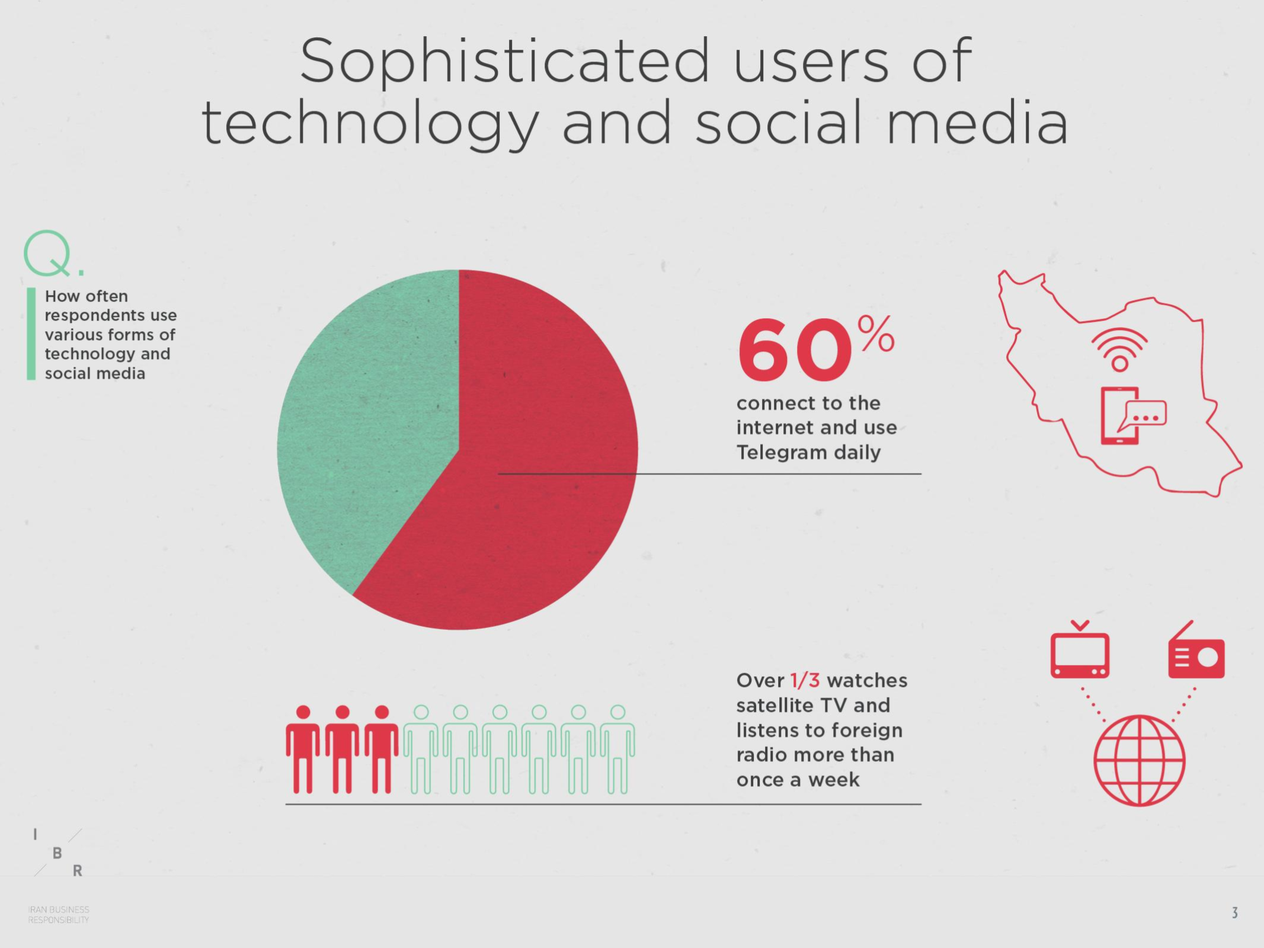
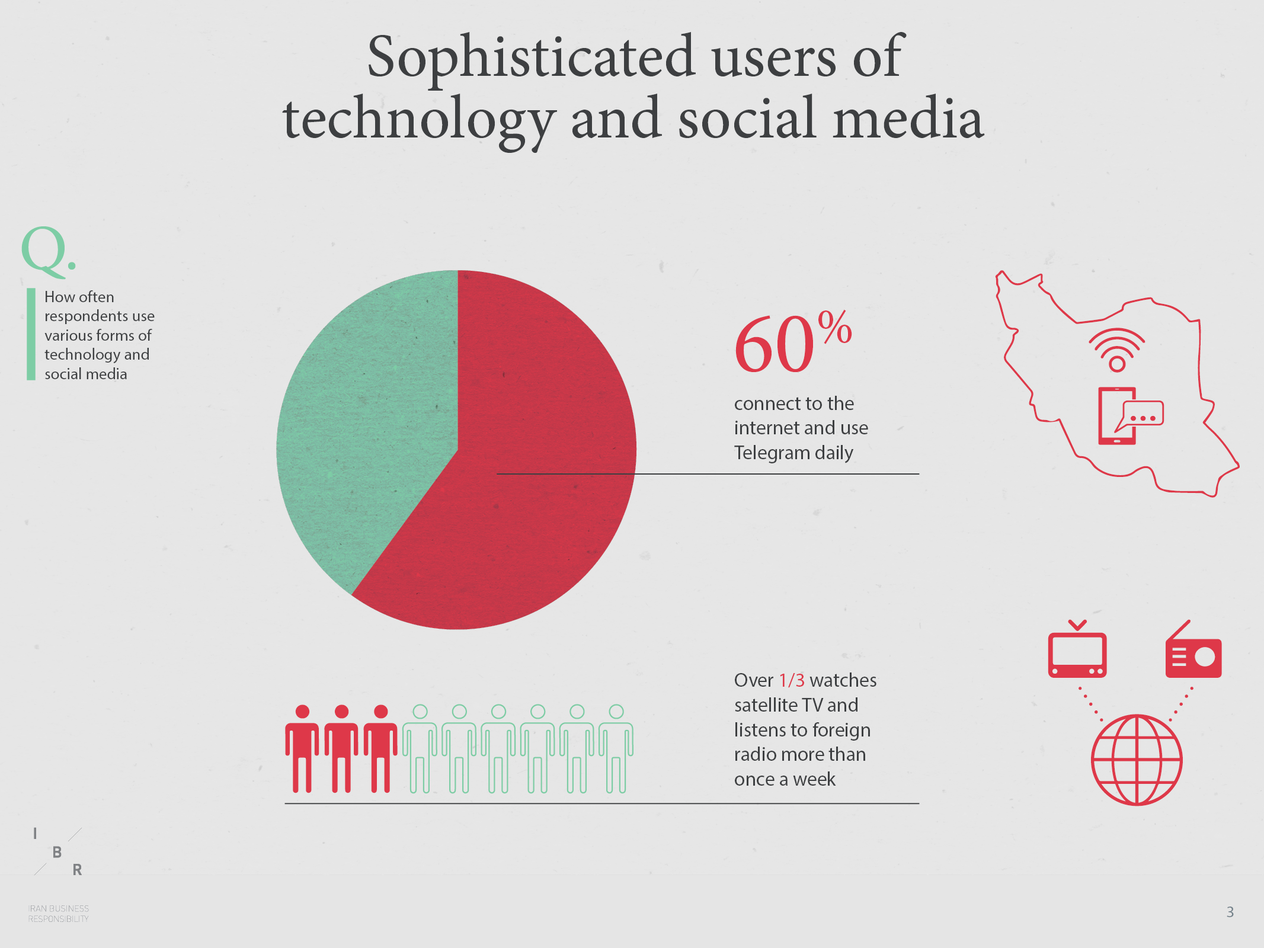
Replacing all images with images exported on Adobe InDesign (Maximum Quality, 150ppi, RGB) version 13.0.1 x64 & Adjusting primary and secondary colors accordingly

diff --git a/css/index.min.css b/css/index.min.css
@@ -1,1 +1,1 @@
-@font-face{font-family:GothamPro;src:url(../assets/fonts/GothamPro-Light.eot);src:url(../assets/fonts/GothamPro-Light.woff2) format("woff2"),url(../assets/fonts/GothamPro-Light.woff) format("woff"),url(../assets/fonts/GothamPro-Light.ttf) format("truetype"),url(../assets/fonts/GothamPro-Light.svg#GothamPro-Light) format("svg"),url(../assets/fonts/GothamPro-Light.eot?#iefix) format("embedded-opentype");font-weight:100;font-style:normal}@font-face{font-family:GothamPro;src:url(../assets/fonts/GothamPro-LightItalic.eot);src:url(../assets/fonts/GothamPro-LightItalic.woff2) format("woff2"),url(../assets/fonts/GothamPro-LightItalic.woff) format("woff"),url(../assets/fonts/GothamPro-LightItalic.ttf) format("truetype"),url(../assets/fonts/GothamPro-LightItalic.svg#GothamPro-LightItalic) format("svg"),url(../assets/fonts/GothamPro-LightItalic.eot?#iefix) format("embedded-opentype");font-weight:100;font-style:italic}@font-face{font-family:GothamPro;src:url(../assets/fonts/GothamPro.eot);src:url(../assets/fonts/GothamPro.woff2) format("woff2"),url(../assets/fonts/GothamPro.woff) format("woff"),url(../assets/fonts/GothamPro.ttf) format("truetype"),url(../assets/fonts/GothamPro.svg#GothamPro) format("svg"),url(../assets/fonts/GothamPro.eot?#iefix) format("embedded-opentype");font-weight:200;font-style:normal}@font-face{font-family:GothamPro;src:url(../assets/fonts/GothamPro-Italic.eot);src:url(../assets/fonts/GothamPro-Italic.woff2) format("woff2"),url(../assets/fonts/GothamPro-Italic.woff) format("woff"),url(../assets/fonts/GothamPro-Italic.ttf) format("truetype"),url(../assets/fonts/GothamPro-Italic.svg#GothamPro-Italic) format("svg"),url(../assets/fonts/GothamPro-Italic.eot?#iefix) format("embedded-opentype");font-weight:200;font-style:italic}@font-face{font-family:GothamPro;src:url(../assets/fonts/GothamPro-Medium.eot);src:url(../assets/fonts/GothamPro-Medium.woff2) format("woff2"),url(../assets/fonts/GothamPro-Medium.woff) format("woff"),url(../assets/fonts/GothamPro-Medium.ttf) format("truetype"),url(../assets/fonts/GothamPro-Medium.svg#GothamPro-Medium) format("svg"),url(../assets/fonts/GothamPro-Medium.eot?#iefix) format("embedded-opentype");font-weight:400;font-style:normal}@font-face{font-family:GothamPro;src:url(../assets/fonts/GothamPro-MediumItalic.eot);src:url(../assets/fonts/GothamPro-MediumItalic.woff2) format("woff2"),url(../assets/fonts/GothamPro-MediumItalic.woff) format("woff"),url(../assets/fonts/GothamPro-MediumItalic.ttf) format("truetype"),url(../assets/fonts/GothamPro-MediumItalic.svg#GothamPro-MediumItalic) format("svg"),url(../assets/fonts/GothamPro-MediumItalic.eot?#iefix) format("embedded-opentype");font-weight:400;font-style:italic}@font-face{font-family:GothamPro;src:url(../assets/fonts/GothamPro-Bold.eot);src:url(../assets/fonts/GothamPro-Bold.woff2) format("woff2"),url(../assets/fonts/GothamPro-Bold.woff) format("woff"),url(../assets/fonts/GothamPro-Bold.ttf) format("truetype"),url(../assets/fonts/GothamPro-Bold.svg#GothamPro-Bold) format("svg"),url(../assets/fonts/GothamPro-Bold.eot?#iefix) format("embedded-opentype");font-weight:600;font-style:normal}@font-face{font-family:GothamPro;src:url(../assets/fonts/GothamPro-BoldItalic.eot);src:url(../assets/fonts/GothamPro-BoldItalic.woff2) format("woff2"),url(../assets/fonts/GothamPro-BoldItalic.woff) format("woff"),url(../assets/fonts/GothamPro-BoldItalic.ttf) format("truetype"),url(../assets/fonts/GothamPro-BoldItalic.svg#GothamPro-BoldItalic) format("svg"),url(../assets/fonts/GothamPro-BoldItalic.eot?#iefix) format("embedded-opentype");font-weight:600;font-style:italic}@font-face{font-family:GothamPro;src:url(../assets/fonts/GothamPro-Black.eot);src:url(../assets/fonts/GothamPro-Black.woff2) format("woff2"),url(../assets/fonts/GothamPro-Black.woff) format("woff"),url(../assets/fonts/GothamPro-Black.ttf) format("truetype"),url(../assets/fonts/GothamPro-Black.svg#GothamPro-Black) format("svg"),url(../assets/fonts/GothamPro-Black.eot?#iefix) format("embedded-opentype");font-weight:800;font-style:normal}@font-face{font-family:GothamPro;src:url(../assets/fonts/GothamPro-BlackItalic.eot);src:url(../assets/fonts/GothamPro-BlackItalic.woff2) format("woff2"),url(../assets/fonts/GothamPro-BlackItalic.woff) format("woff"),url(../assets/fonts/GothamPro-BlackItalic.ttf) format("truetype"),url(../assets/fonts/GothamPro-BlackItalic.svg#GothamPro-BlackItalic) format("svg"),url(../assets/fonts/GothamPro-BlackItalic.eot?#iefix) format("embedded-opentype");font-weight:800;font-style:italic}a{color:#7ccda5}a:active,a:focus,a:hover{color:#57bf8c}.btn-primary{background-color:#7ccda5!important;border-color:#7ccda5!important;color:#fff!important}.btn-primary:active,.btn-primary:focus,.btn-primary:hover{background-color:#57bf8c!important;border-color:#57bf8c!important}.btn-secondary{background-color:#df3848!important;border-color:#df3848!important;color:#fff!important}.btn-secondary:active,.btn-secondary:focus,.btn-secondary:hover{background-color:#c4202f!important;border-color:#c4202f!important}.btn-dark{color:#fff!important}.btn{box-shadow:0 3px 3px 0 rgba(0,0,0,.1);font-weight:700}.bg-primary{background-color:#7ccda5!important}.text-primary{color:#7ccda5!important}.text-secondary{color:#df3848!important}.list-group-item{background-color:#7ccda5;border:none}.list-group-submenu{padding-left:2rem}.list-group-submenu a:before{content:"\00BB\0020"}body,html{width:100%;height:100%}body{font-family:GothamPro,monospace}.btn-xl{padding:1.25rem 2.5rem}.content-section{padding-top:2.5rem;padding-bottom:7.5rem}.content-section-heading h2{font-size:3rem}.content-section-heading h3{font-size:1rem;text-transform:uppercase}h1,h2,h3,h4,h5,h6{font-weight:700}.text-faded{color:rgba(255,255,255,.7)}.map{height:30rem}@media (max-width:992px){.map{height:75%}}.map iframe{pointer-events:none}.scroll-to-top{position:fixed;right:15px;bottom:15px;display:none;width:50px;height:50px;text-align:center;color:#fff;background:rgba(52,58,64,.5);line-height:45px}.scroll-to-top:focus,.scroll-to-top:hover{color:#fff}.scroll-to-top:hover{background:#343a40}.scroll-to-top i{font-weight:800}.masthead{min-height:30rem;position:relative;display:table;width:100%;height:auto;padding-top:8rem;padding-bottom:8rem;background:linear-gradient(90deg,rgba(255,255,255,.1) 0,rgba(255,255,255,.1) 100%),url(../img/william-iven-22449.jpg);background-position:center center;background-repeat:no-repeat;background-size:cover}.masthead h1{font-size:4rem;margin:0;padding:0}@media (min-width:992px){.masthead{height:100vh}.masthead h1{font-size:5.5rem}}#sidebar-wrapper{position:fixed;z-index:2;right:0;width:250px;height:100%;-webkit-transition:all .4s ease 0s;-moz-transition:all .4s ease 0s;-ms-transition:all .4s ease 0s;-o-transition:all .4s ease 0s;transition:all .4s ease 0s;transform:translateX(250px);background:#7ccda5;border-left:1px solid rgba(255,255,255,.1)}.sidebar-nav{position:absolute;top:0;width:250px;margin:0;padding:0;list-style:none}.sidebar-nav li.sidebar-nav-item a{display:block;text-decoration:none;color:#fff;padding:15px}.sidebar-nav li a:hover{text-decoration:none;color:#fff;background:rgba(255,255,255,.2)}.sidebar-nav li a:active,.sidebar-nav li a:focus{text-decoration:none}.sidebar-nav>.sidebar-brand{font-size:1rem;background:rgba(52,58,64,.1);height:80px;padding-top:15px;padding-bottom:15px;padding-left:15px}.sidebar-nav>.sidebar-brand a{color:#fff}.sidebar-nav>.sidebar-brand a:hover{color:#fff;background:0 0}#sidebar-wrapper.active{right:250px;width:250px;-webkit-transition:all .4s ease 0s;-moz-transition:all .4s ease 0s;-ms-transition:all .4s ease 0s;-o-transition:all .4s ease 0s;transition:all .4s ease 0s}.menu-toggle{position:fixed;right:15px;top:15px;width:50px;height:50px;text-align:center;color:#fff;background:rgba(52,58,64,.5);line-height:50px;z-index:999}.menu-toggle:focus,.menu-toggle:hover{color:#fff}.menu-toggle:hover{background:#343a40}.service-icon{background-color:#fff;color:#7ccda5;height:7rem;width:7rem;display:block;line-height:7.5rem;font-size:2.25rem;box-shadow:0 3px 3px 0 rgba(0,0,0,.1)}.callout{padding:15rem 0;background:linear-gradient(90deg,rgba(255,255,255,.1) 0,rgba(255,255,255,.1) 100%),url(../img/bg-callout.jpg);background-position:center center;background-repeat:no-repeat;background-size:cover}.callout h2{font-size:3.5rem;font-weight:700;display:block;max-width:30rem}.portfolio-item{display:block;position:relative;overflow:hidden;max-width:530px;margin:auto auto 1rem}.portfolio-item .caption{display:flex;height:100%;width:100%;background-color:rgba(33,37,41,.2);position:absolute;top:0;bottom:0;z-index:1}.portfolio-item .caption .caption-content{color:#000;margin:auto 2rem 2rem}.portfolio-item .caption .caption-content h2{font-size:.8rem;text-transform:uppercase}.portfolio-item .caption .caption-content p{font-weight:300;font-size:1.2rem}@media (min-width:992px){.portfolio-item{max-width:none;margin:0}.portfolio-item .caption{-webkit-transition:-webkit-clip-path .25s ease-out,background-color .7s;-webkit-clip-path:inset(0);clip-path:inset(0)}.portfolio-item .caption .caption-content{transition:opacity .25s;margin-left:5rem;margin-right:5rem;margin-bottom:5rem}.portfolio-item img{-webkit-transition:-webkit-clip-path .25s ease-out;-webkit-clip-path:inset(-1px);clip-path:inset(-1px)}.portfolio-item:hover img{-webkit-clip-path:inset(2rem);clip-path:inset(2rem)}.portfolio-item:hover .caption{background-color:rgba(124,205,165,.9);-webkit-clip-path:inset(2rem);clip-path:inset(2rem)}}footer.footer{padding-top:5rem;padding-bottom:5rem}footer.footer .social-link{display:block;height:4rem;width:4rem;line-height:4.3rem;font-size:1.5rem;background-color:#7ccda5;transition:background-color .15s ease-in-out;box-shadow:0 3px 3px 0 rgba(0,0,0,.1)}footer.footer .social-link:hover{background-color:#57bf8c;text-decoration:none}a{color:#7ccda5}a:active,a:focus,a:hover{color:#57bf8c}.btn-primary{background-color:#7ccda5!important;border-color:#7ccda5!important;color:#fff!important}.btn-primary:active,.btn-primary:focus,.btn-primary:hover{background-color:#57bf8c!important;border-color:#57bf8c!important}.btn-secondary{background-color:#df3848!important;border-color:#df3848!important;color:#fff!important}.btn-secondary:active,.btn-secondary:focus,.btn-secondary:hover{background-color:#c4202f!important;border-color:#c4202f!important}.btn-dark{color:#fff!important}.btn{box-shadow:0 3px 3px 0 rgba(0,0,0,.1);font-weight:700}.bg-primary{background-color:#7ccda5!important}.text-primary{color:#7ccda5!important}.text-secondary{color:#df3848!important}.list-group-item{background-color:#7ccda5;border:none}.list-group-submenu{padding-left:2rem}.list-group-submenu a:before{content:"\00BB\0020"}a{color:#7ccda5}a:active,a:focus,a:hover{color:#57bf8c}.btn-primary{background-color:#7ccda5!important;border-color:#7ccda5!important;color:#fff!important}.btn-primary:active,.btn-primary:focus,.btn-primary:hover{background-color:#57bf8c!important;border-color:#57bf8c!important}.btn-secondary{background-color:#df3848!important;border-color:#df3848!important;color:#fff!important}.btn-secondary:active,.btn-secondary:focus,.btn-secondary:hover{background-color:#c4202f!important;border-color:#c4202f!important}.btn-dark{color:#fff!important}.btn{box-shadow:0 3px 3px 0 rgba(0,0,0,.1);font-weight:700}.bg-primary{background-color:#7ccda5!important}.text-primary{color:#7ccda5!important}.text-secondary{color:#df3848!important}.list-group-item{background-color:#7ccda5;border:none}.list-group-submenu{padding-left:2rem}.list-group-submenu a:before{content:"\00BB\0020"}html{overflow-x:hidden;background-color:#e5e5e5}body{background-color:#e5e5e5}section{background:linear-gradient(90deg,rgba(255,255,255,.1) 0,rgba(255,255,255,.1) 100%);background-position:center center;background-repeat:no-repeat;background-size:cover;background-color:#e5e5e5;height:100vh}.long-section{min-height:100vh;height:unset}.absolute-bottom-90{position:absolute!important;top:90vh!important;margin-left:auto;margin-right:auto}.container{margin-top:0!important;padding:1rem 0}.container>.subtitle,.container>.title{font-size:200%!important;font-weight:lighter!important;line-height:4.5rem!important}.homepage{padding-top:10rem;font-size:200%;height:100vh}@media screen and (max-width:1366px){.homepage{padding-top:5rem;font-size:180%!important}}@media screen and (max-width:1366px){.homepage img{max-height:20rem!important}}.checkbox{padding-top:3.5rem}.checkbox>img{padding:0;height:9%;max-width:9%}img{max-width:100%;max-height:100%}.no-margins{margin:0;padding:0}hr{border:none;border-left:5px dotted #df3848;color:#fff;background-color:transparent;height:60%;width:1px}connection{border-style:dotted!important;border-color:#df3848!important;color:#fff!important;background-color:transparent!important;width:1px!important}blockquote{font-size:.8em;font-weight:400;text-align:left;border-left:8px solid #7ccda5;margin:0 6px;padding-top:0;padding-right:14px;padding-bottom:0;padding-left:4px;width:80%}blockquote:before{color:#ccc;font-size:4em;line-height:.1em;margin-right:.25em;vertical-align:-.4em}blockquote p{display:inline}a{color:#7ccda5}a:active,a:focus,a:hover{color:#57bf8c}.btn-primary{background-color:#7ccda5!important;border-color:#7ccda5!important;color:#fff!important}.btn-primary:active,.btn-primary:focus,.btn-primary:hover{background-color:#57bf8c!important;border-color:#57bf8c!important}.btn-secondary{background-color:#df3848!important;border-color:#df3848!important;color:#fff!important}.btn-secondary:active,.btn-secondary:focus,.btn-secondary:hover{background-color:#c4202f!important;border-color:#c4202f!important}.btn-dark{color:#fff!important}.btn{box-shadow:0 3px 3px 0 rgba(0,0,0,.1);font-weight:700}.bg-primary{background-color:#7ccda5!important}.text-primary{color:#7ccda5!important}.text-secondary{color:#df3848!important}.list-group-item{background-color:#7ccda5;border:none}.list-group-submenu{padding-left:2rem}.list-group-submenu a:before{content:"\00BB\0020"}.cat01{background:linear-gradient(90deg,rgba(255,255,255,.1) 0,rgba(255,255,255,.1) 100%),url(../assets/img/cat01/thumbnail.png);background-size:contain;background-position:center center;background-repeat:no-repeat}.cat02{background:linear-gradient(90deg,rgba(255,255,255,.1) 0,rgba(255,255,255,.1) 100%),url(../assets/img/cat02/thumbnail.png);background-size:contain;background-position:center center;background-repeat:no-repeat}.cat03{background:linear-gradient(90deg,rgba(255,255,255,.1) 0,rgba(255,255,255,.1) 100%),url(../assets/img/cat03/thumbnail.png);background-size:contain;background-position:center center;background-repeat:no-repeat}nav .fa.arrow:before{content:"\f105";margin-left:3px}.nav-second-level{display:none}nav .sidebar-nav li:hover .nav-second-level{display:block}a{color:#7ccda5}a:active,a:focus,a:hover{color:#57bf8c}.btn-primary{background-color:#7ccda5!important;border-color:#7ccda5!important;color:#fff!important}.btn-primary:active,.btn-primary:focus,.btn-primary:hover{background-color:#57bf8c!important;border-color:#57bf8c!important}.btn-secondary{background-color:#df3848!important;border-color:#df3848!important;color:#fff!important}.btn-secondary:active,.btn-secondary:focus,.btn-secondary:hover{background-color:#c4202f!important;border-color:#c4202f!important}.btn-dark{color:#fff!important}.btn{box-shadow:0 3px 3px 0 rgba(0,0,0,.1);font-weight:700}.bg-primary{background-color:#7ccda5!important}.text-primary{color:#7ccda5!important}.text-secondary{color:#df3848!important}.list-group-item{background-color:#7ccda5;border:none}.list-group-submenu{padding-left:2rem}.list-group-submenu a:before{content:"\00BB\0020"}a{color:#7ccda5}a:active,a:focus,a:hover{color:#57bf8c}.btn-primary{background-color:#7ccda5!important;border-color:#7ccda5!important;color:#fff!important}.btn-primary:active,.btn-primary:focus,.btn-primary:hover{background-color:#57bf8c!important;border-color:#57bf8c!important}.btn-secondary{background-color:#df3848!important;border-color:#df3848!important;color:#fff!important}.btn-secondary:active,.btn-secondary:focus,.btn-secondary:hover{background-color:#c4202f!important;border-color:#c4202f!important}.btn-dark{color:#fff!important}.btn{box-shadow:0 3px 3px 0 rgba(0,0,0,.1);font-weight:700}.bg-primary{background-color:#7ccda5!important}.text-primary{color:#7ccda5!important}.text-secondary{color:#df3848!important}.list-group-item{background-color:#7ccda5;border:none}.list-group-submenu{padding-left:2rem}.list-group-submenu a:before{content:"\00BB\0020"}.analysis-answer .analysis-text2{padding-top:15.7rem!important}@media screen and (max-width:1366px){.analysis-answer .analysis-text2{padding-top:9rem!important}}.analysis-text2:after{width:300%;left:-28rem;top:100%;content:'';position:absolute;height:1px;background:#000;transform:translateY(-50%);z-index:1}@media screen and (max-width:1366px){.analysis-text2:after{width:300%;left:-20rem;top:96%}}.worldtv{padding-top:6rem;max-width:60%!important;max-height:60%!important}a{color:#7ccda5}a:active,a:focus,a:hover{color:#57bf8c}.btn-primary{background-color:#7ccda5!important;border-color:#7ccda5!important;color:#fff!important}.btn-primary:active,.btn-primary:focus,.btn-primary:hover{background-color:#57bf8c!important;border-color:#57bf8c!important}.btn-secondary{background-color:#df3848!important;border-color:#df3848!important;color:#fff!important}.btn-secondary:active,.btn-secondary:focus,.btn-secondary:hover{background-color:#c4202f!important;border-color:#c4202f!important}.btn-dark{color:#fff!important}.btn{box-shadow:0 3px 3px 0 rgba(0,0,0,.1);font-weight:700}.bg-primary{background-color:#7ccda5!important}.text-primary{color:#7ccda5!important}.text-secondary{color:#df3848!important}.list-group-item{background-color:#7ccda5;border:none}.list-group-submenu{padding-left:2rem}.list-group-submenu a:before{content:"\00BB\0020"}.icon-rounded{background:#df3848;font-size:25px;text-align:center;border-radius:50%;display:inline-block;padding:30%}i.icon-rounded>img{-webkit-box-sizing:border-box;box-sizing:border-box;display:block}.business-man{max-width:40%!important;max-height:40%!important}#new-link-line{position:absolute;width:3px;background-color:#06a;z-index:1000;-webkit-transform-origin:top left;-moz-transform-origin:top left;-o-transform-origin:top left;-ms-transform-origin:top left;transform-origin:top left}.question2 .analysis-answer{margin-left:0!important;margin-right:0!important;padding-left:0!important;padding-right:0!important;margin-top:4.5rem!important}.question2 .colliding-col{margin:0!important;padding:0!important}.question2 .icon-rounded{margin:-10%}.colliding-col:nth-child(1){width:50%!important}.colliding-col:nth-child(2){width:40%!important}.colliding-col:nth-child(3){width:10%!important}.question-container{margin-top:0!important;padding:1rem 0}.question-container>.subtitle,.question-container>.title{font-size:300%!important;font-weight:lighter!important;line-height:3.5rem!important}.question-index{color:#7ccda5;font-size:3em!important;font-weight:lighter;text-align:left;margin:0;padding:0}.question-index>span{display:none;font-weight:bolder}.analysis-answer{margin-top:7.5rem;text-align:left;line-height:1.2em;padding:0;padding-left:3rem}@media screen and (max-width:1366px){.analysis-answer{margin-top:4rem;padding-left:1.5rem}}.analysis-answer>.analysis-number{color:#df3848;font-size:3.7em;font-weight:600}.analysis-answer>.analysis-percent{color:#df3848;font-size:2.5em;font-weight:lighter}.analysis-answer>.analysis-text{font-weight:400}.analysis-text1:after{width:184%;left:-12rem;top:21%;content:'';position:absolute;height:1px;background:#000;transform:translateY(-50%);z-index:1}@media screen and (max-width:1366px){.analysis-text1:after{width:180%;left:-8rem;top:27%}}.analysis-text>.number-highlight{color:#df3848;font-weight:500}.ibr-rounded{-webkit-border-radius:50%!important;-moz-border-radius:50%!important;border-radius:50%!important;background-color:#df3848}
+@font-face{font-family:GothamPro;src:url(../assets/fonts/GothamPro-Light.eot);src:url(../assets/fonts/GothamPro-Light.woff2) format("woff2"),url(../assets/fonts/GothamPro-Light.woff) format("woff"),url(../assets/fonts/GothamPro-Light.ttf) format("truetype"),url(../assets/fonts/GothamPro-Light.svg#GothamPro-Light) format("svg"),url(../assets/fonts/GothamPro-Light.eot?#iefix) format("embedded-opentype");font-weight:100;font-style:normal}@font-face{font-family:GothamPro;src:url(../assets/fonts/GothamPro-LightItalic.eot);src:url(../assets/fonts/GothamPro-LightItalic.woff2) format("woff2"),url(../assets/fonts/GothamPro-LightItalic.woff) format("woff"),url(../assets/fonts/GothamPro-LightItalic.ttf) format("truetype"),url(../assets/fonts/GothamPro-LightItalic.svg#GothamPro-LightItalic) format("svg"),url(../assets/fonts/GothamPro-LightItalic.eot?#iefix) format("embedded-opentype");font-weight:100;font-style:italic}@font-face{font-family:GothamPro;src:url(../assets/fonts/GothamPro.eot);src:url(../assets/fonts/GothamPro.woff2) format("woff2"),url(../assets/fonts/GothamPro.woff) format("woff"),url(../assets/fonts/GothamPro.ttf) format("truetype"),url(../assets/fonts/GothamPro.svg#GothamPro) format("svg"),url(../assets/fonts/GothamPro.eot?#iefix) format("embedded-opentype");font-weight:200;font-style:normal}@font-face{font-family:GothamPro;src:url(../assets/fonts/GothamPro-Italic.eot);src:url(../assets/fonts/GothamPro-Italic.woff2) format("woff2"),url(../assets/fonts/GothamPro-Italic.woff) format("woff"),url(../assets/fonts/GothamPro-Italic.ttf) format("truetype"),url(../assets/fonts/GothamPro-Italic.svg#GothamPro-Italic) format("svg"),url(../assets/fonts/GothamPro-Italic.eot?#iefix) format("embedded-opentype");font-weight:200;font-style:italic}@font-face{font-family:GothamPro;src:url(../assets/fonts/GothamPro-Medium.eot);src:url(../assets/fonts/GothamPro-Medium.woff2) format("woff2"),url(../assets/fonts/GothamPro-Medium.woff) format("woff"),url(../assets/fonts/GothamPro-Medium.ttf) format("truetype"),url(../assets/fonts/GothamPro-Medium.svg#GothamPro-Medium) format("svg"),url(../assets/fonts/GothamPro-Medium.eot?#iefix) format("embedded-opentype");font-weight:400;font-style:normal}@font-face{font-family:GothamPro;src:url(../assets/fonts/GothamPro-MediumItalic.eot);src:url(../assets/fonts/GothamPro-MediumItalic.woff2) format("woff2"),url(../assets/fonts/GothamPro-MediumItalic.woff) format("woff"),url(../assets/fonts/GothamPro-MediumItalic.ttf) format("truetype"),url(../assets/fonts/GothamPro-MediumItalic.svg#GothamPro-MediumItalic) format("svg"),url(../assets/fonts/GothamPro-MediumItalic.eot?#iefix) format("embedded-opentype");font-weight:400;font-style:italic}@font-face{font-family:GothamPro;src:url(../assets/fonts/GothamPro-Bold.eot);src:url(../assets/fonts/GothamPro-Bold.woff2) format("woff2"),url(../assets/fonts/GothamPro-Bold.woff) format("woff"),url(../assets/fonts/GothamPro-Bold.ttf) format("truetype"),url(../assets/fonts/GothamPro-Bold.svg#GothamPro-Bold) format("svg"),url(../assets/fonts/GothamPro-Bold.eot?#iefix) format("embedded-opentype");font-weight:600;font-style:normal}@font-face{font-family:GothamPro;src:url(../assets/fonts/GothamPro-BoldItalic.eot);src:url(../assets/fonts/GothamPro-BoldItalic.woff2) format("woff2"),url(../assets/fonts/GothamPro-BoldItalic.woff) format("woff"),url(../assets/fonts/GothamPro-BoldItalic.ttf) format("truetype"),url(../assets/fonts/GothamPro-BoldItalic.svg#GothamPro-BoldItalic) format("svg"),url(../assets/fonts/GothamPro-BoldItalic.eot?#iefix) format("embedded-opentype");font-weight:600;font-style:italic}@font-face{font-family:GothamPro;src:url(../assets/fonts/GothamPro-Black.eot);src:url(../assets/fonts/GothamPro-Black.woff2) format("woff2"),url(../assets/fonts/GothamPro-Black.woff) format("woff"),url(../assets/fonts/GothamPro-Black.ttf) format("truetype"),url(../assets/fonts/GothamPro-Black.svg#GothamPro-Black) format("svg"),url(../assets/fonts/GothamPro-Black.eot?#iefix) format("embedded-opentype");font-weight:800;font-style:normal}@font-face{font-family:GothamPro;src:url(../assets/fonts/GothamPro-BlackItalic.eot);src:url(../assets/fonts/GothamPro-BlackItalic.woff2) format("woff2"),url(../assets/fonts/GothamPro-BlackItalic.woff) format("woff"),url(../assets/fonts/GothamPro-BlackItalic.ttf) format("truetype"),url(../assets/fonts/GothamPro-BlackItalic.svg#GothamPro-BlackItalic) format("svg"),url(../assets/fonts/GothamPro-BlackItalic.eot?#iefix) format("embedded-opentype");font-weight:800;font-style:italic}a{color:#7ccda5}a:active,a:focus,a:hover{color:#57bf8c}.btn-primary{background-color:#7ccda5!important;border-color:#7ccda5!important;color:#fff!important}.btn-primary:active,.btn-primary:focus,.btn-primary:hover{background-color:#57bf8c!important;border-color:#57bf8c!important}.btn-secondary{background-color:#df3848!important;border-color:#df3848!important;color:#fff!important}.btn-secondary:active,.btn-secondary:focus,.btn-secondary:hover{background-color:#c4202f!important;border-color:#c4202f!important}.btn-dark{color:#fff!important}.btn{box-shadow:0 3px 3px 0 rgba(0,0,0,.1);font-weight:700}.bg-primary{background-color:#7ccda5!important}.text-primary{color:#7ccda5!important}.text-secondary{color:#df3848!important}.list-group-item{background-color:#7ccda5;border:none}.list-group-submenu{padding-left:2rem}.list-group-submenu a:before{content:"\00BB\0020"}body,html{width:100%;height:100%}body{font-family:GothamPro,monospace}.btn-xl{padding:1.25rem 2.5rem}.content-section{padding-top:2.5rem;padding-bottom:7.5rem}.content-section-heading h2{font-size:3rem}.content-section-heading h3{font-size:1rem;text-transform:uppercase}h1,h2,h3,h4,h5,h6{font-weight:700}.text-faded{color:rgba(255,255,255,.7)}.map{height:30rem}@media (max-width:992px){.map{height:75%}}.map iframe{pointer-events:none}.scroll-to-top{position:fixed;right:15px;bottom:15px;display:none;width:50px;height:50px;text-align:center;color:#fff;background:rgba(52,58,64,.5);line-height:45px}.scroll-to-top:focus,.scroll-to-top:hover{color:#fff}.scroll-to-top:hover{background:#343a40}.scroll-to-top i{font-weight:800}.masthead{min-height:30rem;position:relative;display:table;width:100%;height:auto;padding-top:8rem;padding-bottom:8rem;background:linear-gradient(90deg,rgba(255,255,255,.1) 0,rgba(255,255,255,.1) 100%),url(../img/william-iven-22449.jpg);background-position:center center;background-repeat:no-repeat;background-size:cover}.masthead h1{font-size:4rem;margin:0;padding:0}@media (min-width:992px){.masthead{height:100vh}.masthead h1{font-size:5.5rem}}#sidebar-wrapper{position:fixed;z-index:2;right:0;width:250px;height:100%;-webkit-transition:all .4s ease 0s;-moz-transition:all .4s ease 0s;-ms-transition:all .4s ease 0s;-o-transition:all .4s ease 0s;transition:all .4s ease 0s;transform:translateX(250px);background:#7ccda5;border-left:1px solid rgba(255,255,255,.1)}.sidebar-nav{position:absolute;top:0;width:250px;margin:0;padding:0;list-style:none}.sidebar-nav li.sidebar-nav-item a{display:block;text-decoration:none;color:#fff;padding:15px}.sidebar-nav li a:hover{text-decoration:none;color:#fff;background:rgba(255,255,255,.2)}.sidebar-nav li a:active,.sidebar-nav li a:focus{text-decoration:none}.sidebar-nav>.sidebar-brand{font-size:1rem;background:rgba(52,58,64,.1);height:80px;padding-top:15px;padding-bottom:15px;padding-left:15px}.sidebar-nav>.sidebar-brand a{color:#fff}.sidebar-nav>.sidebar-brand a:hover{color:#fff;background:0 0}#sidebar-wrapper.active{right:250px;width:250px;-webkit-transition:all .4s ease 0s;-moz-transition:all .4s ease 0s;-ms-transition:all .4s ease 0s;-o-transition:all .4s ease 0s;transition:all .4s ease 0s}.menu-toggle{position:fixed;right:15px;top:15px;width:50px;height:50px;text-align:center;color:#fff;background:rgba(52,58,64,.5);line-height:50px;z-index:999}.menu-toggle:focus,.menu-toggle:hover{color:#fff}.menu-toggle:hover{background:#343a40}.service-icon{background-color:#fff;color:#7ccda5;height:7rem;width:7rem;display:block;line-height:7.5rem;font-size:2.25rem;box-shadow:0 3px 3px 0 rgba(0,0,0,.1)}.callout{padding:15rem 0;background:linear-gradient(90deg,rgba(255,255,255,.1) 0,rgba(255,255,255,.1) 100%),url(../img/bg-callout.jpg);background-position:center center;background-repeat:no-repeat;background-size:cover}.callout h2{font-size:3.5rem;font-weight:700;display:block;max-width:30rem}.portfolio-item{display:block;position:relative;overflow:hidden;max-width:530px;margin:auto auto 1rem}.portfolio-item .caption{display:flex;height:100%;width:100%;background-color:rgba(33,37,41,.2);position:absolute;top:0;bottom:0;z-index:1}.portfolio-item .caption .caption-content{color:#000;margin:auto 2rem 2rem}.portfolio-item .caption .caption-content h2{font-size:.8rem;text-transform:uppercase}.portfolio-item .caption .caption-content p{font-weight:300;font-size:1.2rem}@media (min-width:992px){.portfolio-item{max-width:none;margin:0}.portfolio-item .caption{-webkit-transition:-webkit-clip-path .25s ease-out,background-color .7s;-webkit-clip-path:inset(0);clip-path:inset(0)}.portfolio-item .caption .caption-content{transition:opacity .25s;margin-left:5rem;margin-right:5rem;margin-bottom:5rem}.portfolio-item img{-webkit-transition:-webkit-clip-path .25s ease-out;-webkit-clip-path:inset(-1px);clip-path:inset(-1px)}.portfolio-item:hover img{-webkit-clip-path:inset(2rem);clip-path:inset(2rem)}.portfolio-item:hover .caption{background-color:rgba(124,205,165,.9);-webkit-clip-path:inset(2rem);clip-path:inset(2rem)}}footer.footer{padding-top:5rem;padding-bottom:5rem}footer.footer .social-link{display:block;height:4rem;width:4rem;line-height:4.3rem;font-size:1.5rem;background-color:#7ccda5;transition:background-color .15s ease-in-out;box-shadow:0 3px 3px 0 rgba(0,0,0,.1)}footer.footer .social-link:hover{background-color:#57bf8c;text-decoration:none}a{color:#7ccda5}a:active,a:focus,a:hover{color:#57bf8c}.btn-primary{background-color:#7ccda5!important;border-color:#7ccda5!important;color:#fff!important}.btn-primary:active,.btn-primary:focus,.btn-primary:hover{background-color:#57bf8c!important;border-color:#57bf8c!important}.btn-secondary{background-color:#df3848!important;border-color:#df3848!important;color:#fff!important}.btn-secondary:active,.btn-secondary:focus,.btn-secondary:hover{background-color:#c4202f!important;border-color:#c4202f!important}.btn-dark{color:#fff!important}.btn{box-shadow:0 3px 3px 0 rgba(0,0,0,.1);font-weight:700}.bg-primary{background-color:#7ccda5!important}.text-primary{color:#7ccda5!important}.text-secondary{color:#df3848!important}.list-group-item{background-color:#7ccda5;border:none}.list-group-submenu{padding-left:2rem}.list-group-submenu a:before{content:"\00BB\0020"}a{color:#7ccda5}a:active,a:focus,a:hover{color:#57bf8c}.btn-primary{background-color:#7ccda5!important;border-color:#7ccda5!important;color:#fff!important}.btn-primary:active,.btn-primary:focus,.btn-primary:hover{background-color:#57bf8c!important;border-color:#57bf8c!important}.btn-secondary{background-color:#df3848!important;border-color:#df3848!important;color:#fff!important}.btn-secondary:active,.btn-secondary:focus,.btn-secondary:hover{background-color:#c4202f!important;border-color:#c4202f!important}.btn-dark{color:#fff!important}.btn{box-shadow:0 3px 3px 0 rgba(0,0,0,.1);font-weight:700}.bg-primary{background-color:#7ccda5!important}.text-primary{color:#7ccda5!important}.text-secondary{color:#df3848!important}.list-group-item{background-color:#7ccda5;border:none}.list-group-submenu{padding-left:2rem}.list-group-submenu a:before{content:"\00BB\0020"}html{overflow-x:hidden;background-color:#e5e5e5}body{background-color:#e5e5e5}section{background:linear-gradient(90deg,rgba(255,255,255,.1) 0,rgba(255,255,255,.1) 100%);background-position:center center;background-repeat:no-repeat;background-size:cover;background-color:#e5e5e5;height:100vh}.long-section{min-height:100vh;height:unset}.absolute-bottom-90{position:absolute!important;top:90vh!important;margin-left:auto;margin-right:auto}.container{margin-top:0!important;padding:1rem 0}.container>.subtitle,.container>.title{font-size:200%!important;font-weight:lighter!important;line-height:4.5rem!important}.homepage{padding-top:10rem;font-size:200%;height:100vh}@media screen and (max-width:1366px){.homepage{padding-top:5rem;font-size:180%!important}}.homepage img{max-height:50vh!important}@media screen and (max-width:1366px){.homepage img{max-height:18rem!important}}.checkbox{padding-top:3.5rem}.checkbox>img{padding:0;height:9%;max-width:9%}img{max-width:100%;max-height:100%}.no-margins{margin:0;padding:0}hr{border:none;border-left:5px dotted #df3848;color:#fff;background-color:transparent;height:60%;width:1px}connection{border-style:dotted!important;border-color:#df3848!important;color:#fff!important;background-color:transparent!important;width:1px!important}blockquote{font-size:.8em;font-weight:400;text-align:left;border-left:8px solid #7ccda5;margin:0 6px;padding-top:0;padding-right:14px;padding-bottom:0;padding-left:4px;width:80%}blockquote:before{color:#ccc;font-size:4em;line-height:.1em;margin-right:.25em;vertical-align:-.4em}blockquote p{display:inline}a{color:#7ccda5}a:active,a:focus,a:hover{color:#57bf8c}.btn-primary{background-color:#7ccda5!important;border-color:#7ccda5!important;color:#fff!important}.btn-primary:active,.btn-primary:focus,.btn-primary:hover{background-color:#57bf8c!important;border-color:#57bf8c!important}.btn-secondary{background-color:#df3848!important;border-color:#df3848!important;color:#fff!important}.btn-secondary:active,.btn-secondary:focus,.btn-secondary:hover{background-color:#c4202f!important;border-color:#c4202f!important}.btn-dark{color:#fff!important}.btn{box-shadow:0 3px 3px 0 rgba(0,0,0,.1);font-weight:700}.bg-primary{background-color:#7ccda5!important}.text-primary{color:#7ccda5!important}.text-secondary{color:#df3848!important}.list-group-item{background-color:#7ccda5;border:none}.list-group-submenu{padding-left:2rem}.list-group-submenu a:before{content:"\00BB\0020"}.cat01{background:linear-gradient(90deg,rgba(255,255,255,.1) 0,rgba(255,255,255,.1) 100%),url(../assets/img/cat01/thumbnail.png);background-size:contain;background-position:center center;background-repeat:no-repeat}.cat02{background:linear-gradient(90deg,rgba(255,255,255,.1) 0,rgba(255,255,255,.1) 100%),url(../assets/img/cat02/thumbnail.png);background-size:contain;background-position:center center;background-repeat:no-repeat}.cat03{background:linear-gradient(90deg,rgba(255,255,255,.1) 0,rgba(255,255,255,.1) 100%),url(../assets/img/cat03/thumbnail.png);background-size:contain;background-position:center center;background-repeat:no-repeat}nav .fa.arrow:before{content:"\f105";margin-left:3px}.nav-second-level{display:none}nav .sidebar-nav li:hover .nav-second-level{display:block}a{color:#7ccda5}a:active,a:focus,a:hover{color:#57bf8c}.btn-primary{background-color:#7ccda5!important;border-color:#7ccda5!important;color:#fff!important}.btn-primary:active,.btn-primary:focus,.btn-primary:hover{background-color:#57bf8c!important;border-color:#57bf8c!important}.btn-secondary{background-color:#df3848!important;border-color:#df3848!important;color:#fff!important}.btn-secondary:active,.btn-secondary:focus,.btn-secondary:hover{background-color:#c4202f!important;border-color:#c4202f!important}.btn-dark{color:#fff!important}.btn{box-shadow:0 3px 3px 0 rgba(0,0,0,.1);font-weight:700}.bg-primary{background-color:#7ccda5!important}.text-primary{color:#7ccda5!important}.text-secondary{color:#df3848!important}.list-group-item{background-color:#7ccda5;border:none}.list-group-submenu{padding-left:2rem}.list-group-submenu a:before{content:"\00BB\0020"}a{color:#7ccda5}a:active,a:focus,a:hover{color:#57bf8c}.btn-primary{background-color:#7ccda5!important;border-color:#7ccda5!important;color:#fff!important}.btn-primary:active,.btn-primary:focus,.btn-primary:hover{background-color:#57bf8c!important;border-color:#57bf8c!important}.btn-secondary{background-color:#df3848!important;border-color:#df3848!important;color:#fff!important}.btn-secondary:active,.btn-secondary:focus,.btn-secondary:hover{background-color:#c4202f!important;border-color:#c4202f!important}.btn-dark{color:#fff!important}.btn{box-shadow:0 3px 3px 0 rgba(0,0,0,.1);font-weight:700}.bg-primary{background-color:#7ccda5!important}.text-primary{color:#7ccda5!important}.text-secondary{color:#df3848!important}.list-group-item{background-color:#7ccda5;border:none}.list-group-submenu{padding-left:2rem}.list-group-submenu a:before{content:"\00BB\0020"}.analysis-answer .analysis-text2{padding-top:15.7rem!important}@media screen and (max-width:1366px){.analysis-answer .analysis-text2{padding-top:9rem!important}}.analysis-text2:after{width:300%;left:-28rem;top:100%;content:'';position:absolute;height:1px;background:#000;transform:translateY(-50%);z-index:1}@media screen and (max-width:1366px){.analysis-text2:after{width:300%;left:-20rem;top:96%}}.worldtv{padding-top:6rem;max-width:60%!important;max-height:60%!important}a{color:#7ccda5}a:active,a:focus,a:hover{color:#57bf8c}.btn-primary{background-color:#7ccda5!important;border-color:#7ccda5!important;color:#fff!important}.btn-primary:active,.btn-primary:focus,.btn-primary:hover{background-color:#57bf8c!important;border-color:#57bf8c!important}.btn-secondary{background-color:#df3848!important;border-color:#df3848!important;color:#fff!important}.btn-secondary:active,.btn-secondary:focus,.btn-secondary:hover{background-color:#c4202f!important;border-color:#c4202f!important}.btn-dark{color:#fff!important}.btn{box-shadow:0 3px 3px 0 rgba(0,0,0,.1);font-weight:700}.bg-primary{background-color:#7ccda5!important}.text-primary{color:#7ccda5!important}.text-secondary{color:#df3848!important}.list-group-item{background-color:#7ccda5;border:none}.list-group-submenu{padding-left:2rem}.list-group-submenu a:before{content:"\00BB\0020"}.icon-rounded{background:#df3848;font-size:25px;text-align:center;border-radius:50%;display:inline-block;padding:30%}i.icon-rounded>img{-webkit-box-sizing:border-box;box-sizing:border-box;display:block}.business-man{max-width:40%!important;max-height:40%!important}#new-link-line{position:absolute;width:3px;background-color:#06a;z-index:1000;-webkit-transform-origin:top left;-moz-transform-origin:top left;-o-transform-origin:top left;-ms-transform-origin:top left;transform-origin:top left}.question2 .analysis-answer{margin-left:0!important;margin-right:0!important;padding-left:0!important;padding-right:0!important;margin-top:4.5rem!important}.question2 .colliding-col{margin:0!important;padding:0!important}.question2 .icon-rounded{margin:-10%}.colliding-col:nth-child(1){width:50%!important}.colliding-col:nth-child(2){width:40%!important}.colliding-col:nth-child(3){width:10%!important}.question-container{margin-top:0!important;padding:1rem 0}.question-container>.subtitle,.question-container>.title{font-size:300%!important;font-weight:lighter!important;line-height:3.5rem!important}.question-index{color:#7ccda5;font-size:3em!important;font-weight:lighter;text-align:left;margin:0;padding:0}.question-index>span{display:none;font-weight:bolder}.analysis-answer{margin-top:7.5rem;text-align:left;line-height:1.2em;padding:0;padding-left:3rem}@media screen and (max-width:1366px){.analysis-answer{margin-top:4rem;padding-left:1.5rem}}.analysis-answer>.analysis-number{color:#df3848;font-size:3.7em;font-weight:600}.analysis-answer>.analysis-percent{color:#df3848;font-size:2.5em;font-weight:lighter}.analysis-answer>.analysis-text{font-weight:400}.analysis-text1:after{width:184%;left:-12rem;top:21%;content:'';position:absolute;height:1px;background:#000;transform:translateY(-50%);z-index:1}@media screen and (max-width:1366px){.analysis-text1:after{width:180%;left:-8rem;top:27%}}.analysis-text>.number-highlight{color:#df3848;font-weight:500}.ibr-rounded{-webkit-border-radius:50%!important;-moz-border-radius:50%!important;border-radius:50%!important;background-color:#df3848}

diff --git a/index.html b/index.html
@@ -84,7 +84,7 @@
     <section class="homepage row">
       <div class="container text-center my-auto">
         <p class="title">Expectations on<br />responsible business:<br />opportunities and challenges</p>
-        <img src="assets/img/ibr%20logo.png"/><br/>
+        <img src="assets/img/homepage/logo.png"/><br/>
         <a class="btn btn-primary btn-xl js-scroll-trigger absolute-bottom-90 center-block" href="#cat01">SEE SURVEY RESULTS</a>
       </div>
       <div class="overlay"></div>

diff --git a/css/index.css b/css/index.css
@@ -561,9 +561,13 @@ section {
   }
 }
 
+.homepage img {
+  max-height: 50vh !important;
+}
+
 @media screen and (max-width: 1366px) {
   .homepage img {
-    max-height: 20rem !important;
+    max-height: 18rem !important;
   }
 }
 

diff --git a/scss/ibr/_global.scss b/scss/ibr/_global.scss
@@ -53,8 +53,9 @@ section {
 }
 
 .homepage img {
+  max-height: 50vh !important;
   @media #{$information-laptop} {
-    max-height: 20rem !important;
+    max-height: 18rem !important;
   }
 }
 

diff --git a/scss/template/_variables.scss b/scss/template/_variables.scss
@@ -1,6 +1,6 @@
 // Variables
-$design-green: #7CCDA5;
-$design-red: #df3848;
+$design-green: #7DCDA5;
+$design-red: #DE3849;
 
 // Restated Bootstrap Variables
 
